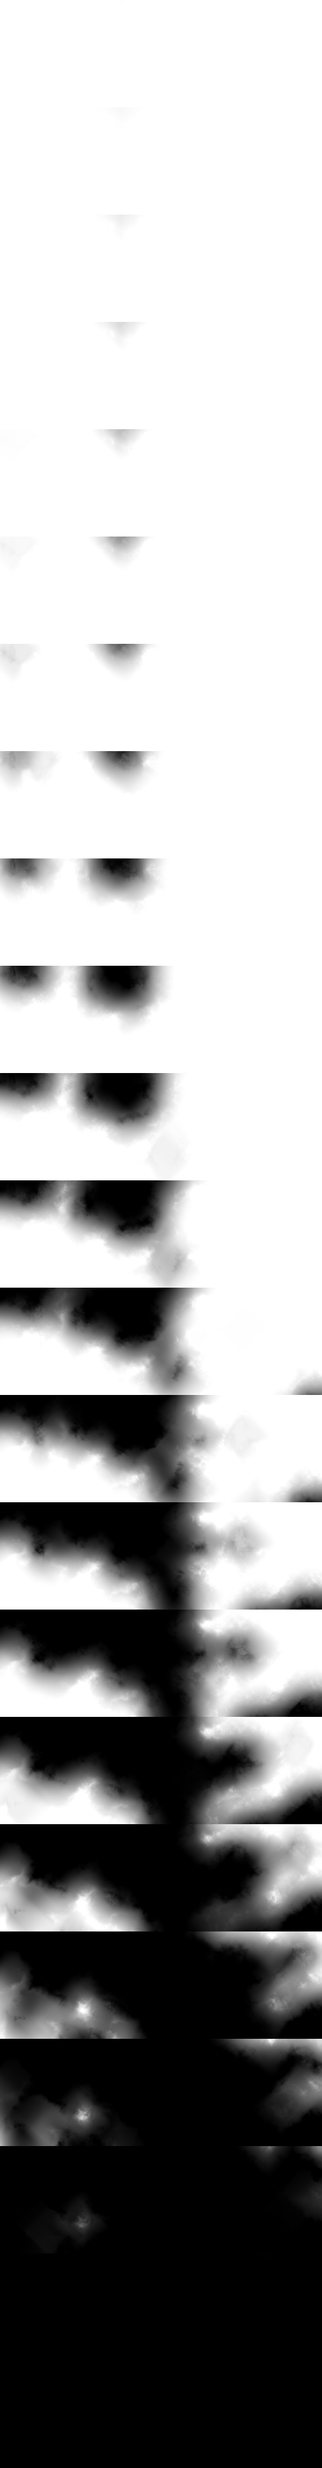
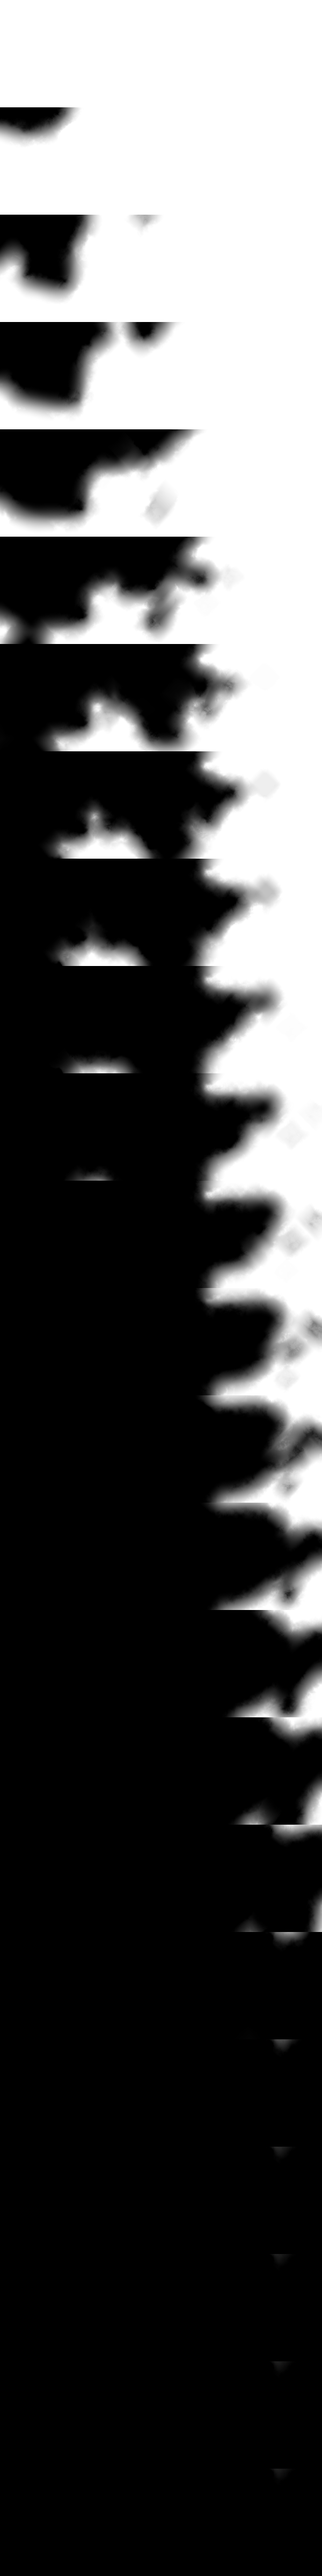
adjust alpha timing

diff --git a/Ars_Magica_5th.html b/Ars_Magica_5th.html
@@ -92,6 +92,55 @@
       <button type="roll" name="roll_Personality" title="%{Personality}" value="[[1d10+(@{Personality_Score)}]]"></button>
     </fieldset>
   </div>
+</div>
+<div class="tabpage __abilityTab">
+  <div class="pageHalf">
+    <div class="characteristics">
+      <h1>
+         Characteristics</h1>
+    </div>
+  </div>
+  <div class="pageHalf abilities">
+    <h1>
+       Abilities </h1>
+    <fieldset class="repeating_ability">
+      <div>
+        <button type="roll"></button>
+        <input type="text" name="attr_Ability_name"/><span class="display_score">3</span>
+        <input type="checkbox" name="attr_Ability_show"/>
+      </div>
+      <input class="expand_toggle" type="hidden" name="attr_Ability_show"/>
+      <div class="expanded_ability">
+        <div class="xp_ribbon">
+          <div class="specialization">
+            <input type="text" name="attr_Ability_specialization"/>
+          </div>
+          <div class="ribbonScore" data-tip="Base Score">
+            <input type="number" name="Ability_score" value="0"/>
+          </div><span class="tip" data-tip="Base Score"></span>
+          <div class="ribbonCurrent" data-tip="Current Experience">
+            <input type="number" name="Ability_current" value="0"/>
+          </div><span class="tip" data-tip="Current Experience"></span>
+          <div class="ribbonPair">
+            <div class="ribbonProgress" data-tip="Experience to next level">
+              <input type="number" name="Ability_progress" value="0"/>
+            </div><span class="tip" data-tip="Experience to next level"></span>
+            <div class="ribbonMax" data-tip="Experience to buy">
+              <input type="number" name="Ability_max" value="0"/>
+            </div><span class="tip" data-tip="Experience to buy"></span>
+          </div>
+          <div class="ribbonBonus" data-tip="Bonus to base score">
+            <input type="number" name="Ability_bonus" value="0"/>
+          </div><span class="tip" data-tip="Bonus to base score"></span>
+        </div>
+        <label class="option_accelerated" data-tip="Accelerated Experience"><span class="icon_accelerated"></span>
+          <div class="c_check">
+            <input type="checkbox" name="attr_Ability_accelerated"/><span></span>
+          </div><span class="tip" data-tip="Accelerated Experience"></span>
+        </label>
+      </div>
+    </fieldset>
+  </div>
 </div><input type="hidden" class="alert-hidder" name="attr_alert-161-spell-update" value="0"/>
 <div class="alert alert-warning">
 <div>

diff --git a/Ars_Magica_5th.css b/Ars_Magica_5th.css
@@ -36,7 +36,7 @@
   --img-parchment: url(https://i.imgur.com/CiMIYOC.png);
   --img-wipeout: url(https://i.imgur.com/BmGBJuH.png);
   --img-tile: url(https://i.imgur.com/dlqwuz7.png);
-  --img-inkin: url(https://i.imgur.com/egwOVK0.png);
+  --img-inkin: url(https://raw.githubusercontent.com/Riernar/arm5-sheet/master/assets/bleed_mask_alpha.png);
   --math-button: 12px;
   --math-bounce: cubic-bezier(.3,-1,.6,2);
   --vfx-border: drop-shadow(var(--math-border) var(--math-border) 0px var(--col-border)) drop-shadow(calc(var(--math-border) * -1) calc(var(--math-border) * -1) 0px var(--col-border)) drop-shadow(calc(var(--math-border) * -1) var(--math-border) 0px var(--col-border)) drop-shadow(var(--math-border) calc(var(--math-border) * -1) 0px var(--col-border));
@@ -272,14 +272,6 @@
   background-position: left;
   -webkit-transition: background-position 800ms ease;
   transition: background-position 800ms ease;
-  -webkit-mask-image: var(--img-inkin);
-          mask-image: var(--img-inkin);
-  -webkit-mask-mode: luminance;
-  mask-mode: luminance;
-  -webkit-animation: inked 800ms ease-in-out;
-          animation: inked 800ms ease-in-out;
-  -webkit-animation-timing-function: steps(23, end);
-          animation-timing-function: steps(23, end);
   outline: none;
 }
 @-webkit-keyframes inked {
@@ -616,20 +608,32 @@
 }
 .ui-dialog .tab-content .charsheet .expanded_ability {
   position: relative;
-  padding-top: 20px;
+  padding-top: 0px;
   border: 3px solid var(--col-greenearth);
   border-radius: 0 0 0 50px;
   background: var(--img-scroll);
   background-size: 100%;
   background-position: bottom;
-  display: none;
+  -webkit-transition: all 300ms ease-in-out;
+  transition: all 300ms ease-in-out;
+  height: 0;
+  overflow: hidden;
 }
 .ui-dialog .tab-content .charsheet .expand_toggle[value=on] + .expanded_ability {
+  padding-top: 20px;
   -webkit-transform-origin: top;
           transform-origin: top;
-  display: block;
-  -webkit-animation: rollout 0.25s ease-in-out;
-          animation: rollout 0.25s ease-in-out;
+  -webkit-transition: all 200ms ease-in-out;
+  transition: all 200ms ease-in-out;
+  height: 115px;
+  -webkit-mask-image: var(--img-inkin);
+          mask-image: var(--img-inkin);
+  -webkit-mask-position: left bottom;
+          mask-position: left bottom;
+  -webkit-animation: inked 500ms ease-in-out;
+          animation: inked 500ms ease-in-out;
+  -webkit-animation-timing-function: steps(23, end);
+          animation-timing-function: steps(23, end);
 }
 @-webkit-keyframes rollout {
   0% {

diff --git a/sheet.css b/sheet.css
@@ -34,7 +34,7 @@
   --img-parchment: url(https://i.imgur.com/CiMIYOC.png);
   --img-wipeout: url(https://i.imgur.com/BmGBJuH.png);
   --img-tile: url(https://i.imgur.com/dlqwuz7.png);
-  --img-inkin: url(https://i.imgur.com/egwOVK0.png);
+  --img-inkin: url(https://raw.githubusercontent.com/Riernar/arm5-sheet/master/assets/bleed_mask_alpha.png);
   --math-button: 12px;
   --math-bounce: cubic-bezier(.3,-1,.6,2);
   --vfx-border: drop-shadow(var(--math-border) var(--math-border) 0px var(--col-border)) drop-shadow(calc(var(--math-border) * -1) calc(var(--math-border) * -1) 0px var(--col-border)) drop-shadow(calc(var(--math-border) * -1) var(--math-border) 0px var(--col-border)) drop-shadow(var(--math-border) calc(var(--math-border) * -1) 0px var(--col-border));
@@ -270,14 +270,6 @@
   background-position: left;
   -webkit-transition: background-position 800ms ease;
   transition: background-position 800ms ease;
-  -webkit-mask-image: var(--img-inkin);
-          mask-image: var(--img-inkin);
-  -webkit-mask-mode: luminance;
-  mask-mode: luminance;
-  -webkit-animation: inked 800ms ease-in-out;
-          animation: inked 800ms ease-in-out;
-  -webkit-animation-timing-function: steps(23, end);
-          animation-timing-function: steps(23, end);
   outline: none;
 }
 @-webkit-keyframes inked {
@@ -614,20 +606,32 @@
 }
 .ui-dialog .tab-content .charsheet .expanded_ability {
   position: relative;
-  padding-top: 20px;
+  padding-top: 0px;
   border: 3px solid var(--col-greenearth);
   border-radius: 0 0 0 50px;
   background: var(--img-scroll);
   background-size: 100%;
   background-position: bottom;
-  display: none;
+  -webkit-transition: all 300ms ease-in-out;
+  transition: all 300ms ease-in-out;
+  height: 0;
+  overflow: hidden;
 }
 .ui-dialog .tab-content .charsheet .expand_toggle[value=on] + .expanded_ability {
+  padding-top: 20px;
   -webkit-transform-origin: top;
           transform-origin: top;
-  display: block;
-  -webkit-animation: rollout 0.25s ease-in-out;
-          animation: rollout 0.25s ease-in-out;
+  -webkit-transition: all 200ms ease-in-out;
+  transition: all 200ms ease-in-out;
+  height: 115px;
+  -webkit-mask-image: var(--img-inkin);
+          mask-image: var(--img-inkin);
+  -webkit-mask-position: left bottom;
+          mask-position: left bottom;
+  -webkit-animation: inked 500ms ease-in-out;
+          animation: inked 500ms ease-in-out;
+  -webkit-animation-timing-function: steps(23, end);
+          animation-timing-function: steps(23, end);
 }
 @-webkit-keyframes rollout {
   0% {

diff --git a/sheet.scss b/sheet.scss
@@ -36,7 +36,7 @@
   --img-parchment: url(https://i.imgur.com/CiMIYOC.png);
   --img-wipeout: url(https://i.imgur.com/BmGBJuH.png);
   --img-tile: url(https://i.imgur.com/dlqwuz7.png);
-  --img-inkin: url(https://i.imgur.com/egwOVK0.png);
+  --img-inkin: url(https://raw.githubusercontent.com/Riernar/arm5-sheet/master/assets/bleed_mask_alpha.png);
   --math-button: 12px;
   --math-bounce: cubic-bezier(.3,-1,.6,2);
   --vfx-border: drop-shadow(var(--math-border) var(--math-border) 0px var(--col-border)) drop-shadow(calc(var(--math-border) * -1) calc(var(--math-border) * -1) 0px var(--col-border)) drop-shadow(calc(var(--math-border) * -1) var(--math-border) 0px var(--col-border)) drop-shadow(var(--math-border) calc(var(--math-border) * -1) 0px var(--col-border));
@@ -230,11 +230,6 @@
             background: linear-gradient(0deg, transparent 49%, var(--col-leadWhite) 4px, transparent 18px), var(--img-wipeout);
             background-position: left;
             transition: background-position 800ms ease;
-            mask-image: var(--img-inkin);
-            -webkit-mask-mode: luminance;
-            mask-mode: luminance;
-            animation: inked 800ms ease-in-out;
-            animation-timing-function: steps(23, end);
             outline: none;
         }
     }
@@ -486,14 +481,15 @@
     }
     .expanded_ability {
         position: relative;
-        padding-top: 20px;
+        padding-top: 0px;
         border: 3px solid var(--col-greenearth);
         border-radius: 0 0 0 50px;
         background: var(--img-scroll);
         background-size: 100%;
         background-position: bottom;
-        display: none;
-
+        transition: all 300ms ease-in-out;
+        height: 0;
+        overflow: hidden;
         // &::before {
         //     content: '';
         //     position: absolute;
@@ -508,9 +504,16 @@
         // }
     }
     .expand_toggle[value=on] + .expanded_ability {
+        padding-top: 20px;
         transform-origin: top;
-        display: block;
-        animation: rollout .25s ease-in-out;
+        transition: all 200ms ease-in-out;
+        height: 115px;
+        // animation: rollout .25s ease-in-out;
+        mask-image: var(--img-inkin);
+        mask-position: left bottom;
+        animation: inked 500ms ease-in-out;
+        animation-timing-function: steps(23, end);
+        
     }
     @keyframes rollout {
         0% {
